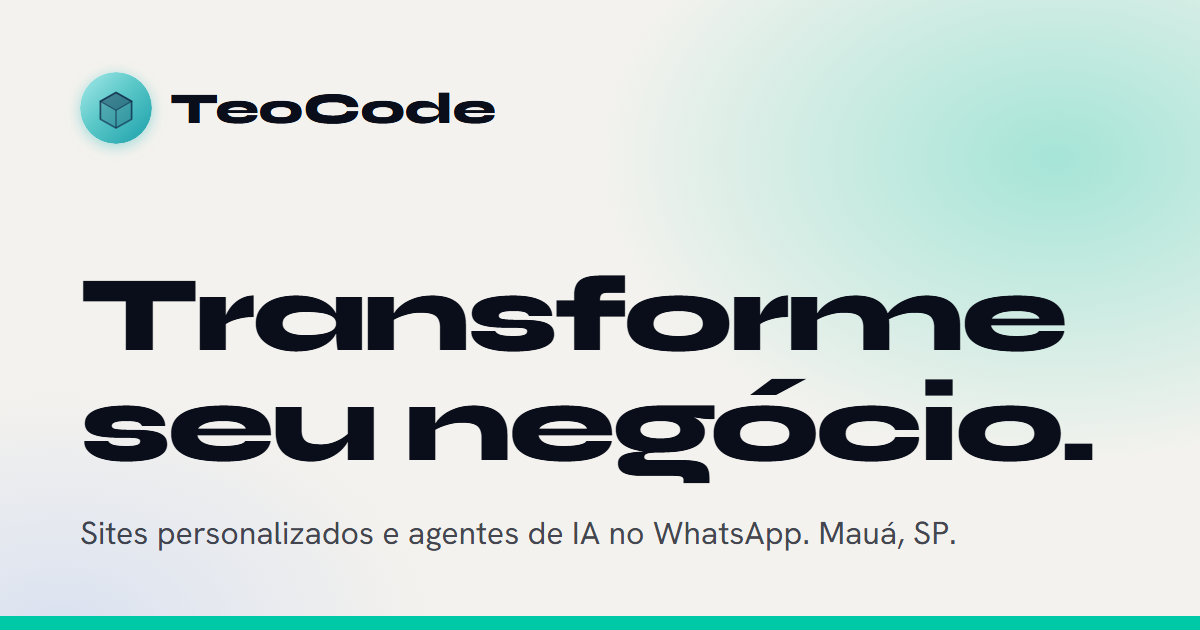
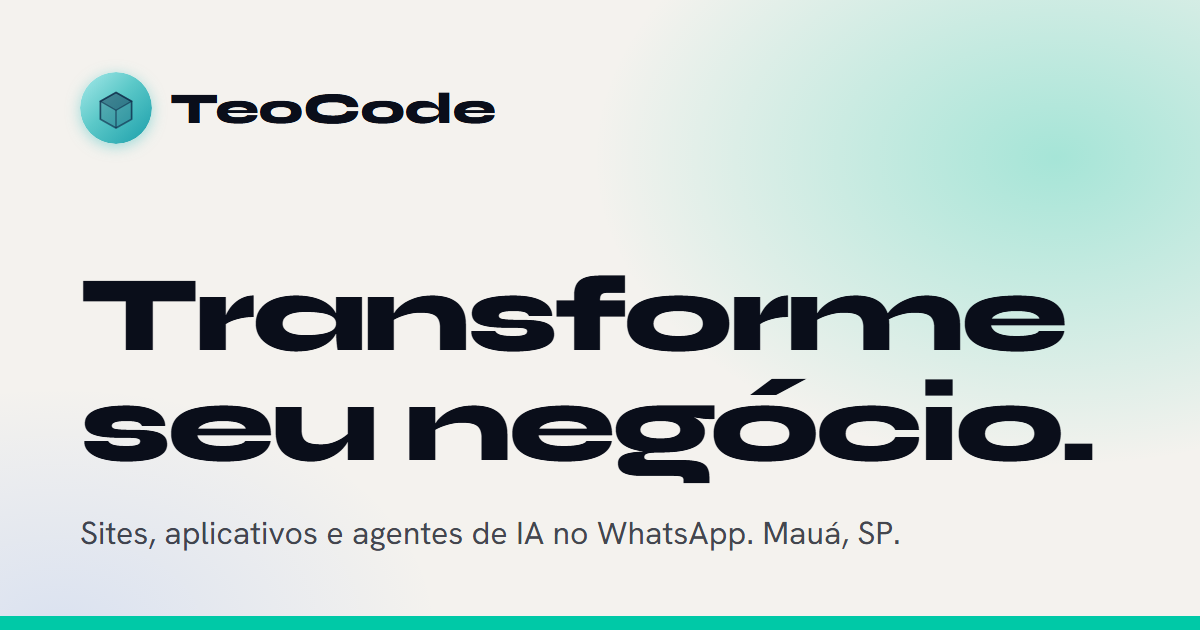
Atualização | SEO

Changed region(s): [[0.1233, 0.8143, 0.8017, 0.8746]]

diff --git a/404.html b/404.html
@@ -1,0 +1,96 @@
+<!DOCTYPE html>
+<html lang="pt-BR">
+
+<head>
+    <meta charset="utf-8" />
+    <meta name="viewport" content="width=device-width, initial-scale=1" />
+    <meta name="theme-color" content="#f4f2ee" />
+    <meta name="robots" content="noindex" />
+    <title>Página não encontrada | TeoCode</title>
+
+    <!-- Caminhos começam com "/" porque esta página é servida em qualquer endereço inexistente. -->
+    <link rel="icon" type="image/svg+xml" href="/assets/favicon.svg" />
+    <link rel="icon" type="image/png" sizes="32x32" href="/assets/favicon-32.png" />
+
+    <script data-goatcounter="https://teocode.goatcounter.com/count" async src="//gc.zgo.at/count.js"></script>
+
+    <link rel="preconnect" href="https://fonts.googleapis.com" />
+    <link rel="preconnect" href="https://fonts.gstatic.com" crossorigin />
+    <link
+        href="https://fonts.googleapis.com/css2?family=Hanken+Grotesk:wght@400;600&family=Syne:wght@800&display=swap"
+        rel="stylesheet" />
+
+    <style>
+        * { box-sizing: border-box; margin: 0; padding: 0; }
+        html { background: #f4f2ee; color: #0a0e1a; color-scheme: light; }
+        body {
+            display: flex;
+            min-height: 100vh;
+            min-height: 100dvh;
+            flex-direction: column;
+            justify-content: center;
+            align-items: flex-start;
+            width: 100%;
+            max-width: 720px;
+            margin: 0 auto;
+            padding: 48px 20px;
+            font-family: "Hanken Grotesk", ui-sans-serif, system-ui, sans-serif;
+        }
+        .brand { display: flex; align-items: center; gap: 10px; color: inherit; text-decoration: none; }
+        .brand img { display: block; border-radius: 50%; box-shadow: 0 3px 14px rgba(91, 200, 200, 0.55); }
+        .brand span { font-family: "Syne", sans-serif; font-weight: 800; font-size: 1.4rem; letter-spacing: -0.01em; }
+        h1 {
+            margin-top: 48px;
+            font-family: "Syne", sans-serif;
+            font-weight: 800;
+            font-size: clamp(2rem, 7vw, 3.5rem);
+            line-height: 1.06;
+            letter-spacing: -0.03em;
+            text-wrap: balance;
+        }
+        p { margin-top: 20px; max-width: 44ch; font-size: 1.1rem; line-height: 1.6; color: rgba(10, 14, 26, 0.75); }
+        .actions { display: flex; flex-wrap: wrap; gap: 12px; margin-top: 32px; }
+        .button {
+            display: inline-flex;
+            min-height: 48px;
+            align-items: center;
+            border: 1px solid transparent;
+            border-radius: 999px;
+            padding: 12px 24px;
+            font-weight: 600;
+            color: #0a0e1a;
+            text-decoration: none;
+        }
+        .button-primary { background: #00c9a7; }
+        .button-quiet { border-color: rgba(10, 14, 26, 0.25); }
+        a:focus-visible { outline: 3px solid #0a0e1a; outline-offset: 3px; }
+    </style>
+</head>
+
+<body>
+    <a class="brand" href="/">
+        <img src="/assets/logo.svg" width="42" height="42" alt="" />
+        <span>TeoCode</span>
+    </a>
+
+    <main>
+        <h1>Página não encontrada</h1>
+        <p>O endereço que você abriu não existe ou mudou de lugar. Volte ao início ou fale com a gente pelo WhatsApp.</p>
+        <div class="actions">
+            <a class="button button-primary" href="/">Voltar ao início</a>
+            <a class="button button-quiet" target="_blank" rel="noopener noreferrer" data-gc-event="cta-404"
+                href="https://wa.me/5511926377723?text=Ol%C3%A1!%20Abri%20um%20link%20do%20site%20da%20TeoCode%20que%20n%C3%A3o%20funcionou%20e%20gostaria%20de%20ajuda.">Falar no WhatsApp</a>
+        </div>
+    </main>
+
+    <script>
+        document.querySelector('[data-gc-event]').addEventListener('click', function () {
+            var name = this.getAttribute('data-gc-event');
+            if (window.goatcounter && window.goatcounter.count) {
+                window.goatcounter.count({ path: name, title: name, event: true });
+            }
+        });
+    </script>
+</body>
+
+</html>

diff --git a/index.html b/index.html
@@ -28,15 +28,15 @@
     <meta property="og:url" content="https://teocode.com.br/" />
     <meta property="og:title" content="TeoCode | Criação de Sites e Agentes de IA em Mauá, SP" />
     <meta property="og:description"
-        content="Sites personalizados e agentes de IA no WhatsApp para negócios de Mauá e região. Agende sua avaliação gratuita." />
+        content="Sites, aplicativos personalizados e agentes de IA no WhatsApp para negócios de Mauá e região. Agende sua avaliação gratuita." />
     <meta property="og:image" content="https://teocode.com.br/assets/og-image.png" />
     <meta property="og:image:width" content="1200" />
     <meta property="og:image:height" content="630" />
-    <meta property="og:image:alt" content="TeoCode: sites e agentes de IA para o seu negócio crescer" />
+    <meta property="og:image:alt" content="TeoCode: transforme seu negócio. Sites, aplicativos e agentes de IA em Mauá, SP" />
     <meta name="twitter:card" content="summary_large_image" />
     <meta name="twitter:title" content="TeoCode | Criação de Sites e Agentes de IA em Mauá, SP" />
     <meta name="twitter:description"
-        content="Sites personalizados e agentes de IA no WhatsApp para negócios de Mauá e região." />
+        content="Sites, aplicativos personalizados e agentes de IA no WhatsApp para negócios de Mauá e região." />
     <meta name="twitter:image" content="https://teocode.com.br/assets/og-image.png" />
 
     <!-- Favicon (gerado a partir do logo original) -->
@@ -220,15 +220,14 @@
                 class="mx-auto grid w-full max-w-[1344px] items-center gap-14 px-5 sm:px-8 lg:grid-cols-12 lg:gap-8 3xl:max-w-[1664px] 4xl:max-w-[1964px]">
                 <div class="lg:col-span-7">
                     <h1 id="hero-title"
-                        class="font-display text-[clamp(2.2rem,9vw,4.5rem)] font-extrabold leading-[1.02] tracking-[-0.035em] text-ink lg:text-[clamp(2.4rem,5.3vw,4.6rem)]">
-                        <span class="block in-hero" data-words>Transforme</span>
-                        <span class="block in-hero" data-words style="--d:140ms">seu negócio.</span>
+                        class="font-display text-[clamp(1.5rem,7.8vw,4rem)] font-extrabold leading-[1.06] tracking-[-0.035em] text-ink lg:text-[clamp(2.4rem,4.1vw,3.75rem)]">
+                        <span class="block text-balance in-hero" data-words>Sites, aplicativos e agentes&nbsp;de&nbsp;IA em&nbsp;Mauá</span>
                     </h1>
 
                     <p class="hero-rise mt-7 max-w-[34ch] text-[1.125rem] leading-relaxed text-ink/75 sm:max-w-[44ch] sm:text-[1.2rem]"
                         style="--d:420ms">
-                        Sites personalizados e agentes de IA no WhatsApp para negócios de Mauá e região que querem
-                        crescer.
+                        Transforme seu negócio com soluções sob medida, criadas para empresas de Mauá e região que
+                        querem crescer.
                     </p>
 
                     <div class="hero-rise mt-9 flex flex-wrap items-center gap-x-4 gap-y-3" style="--d:560ms">

diff --git a/assets/js/main.js b/assets/js/main.js
@@ -28,10 +28,10 @@
 
   /* ── 0b. Titulos revelados palavra por palavra ───────────────────────── */
   $$('[data-words]').forEach((el) => {
-    const words = el.textContent.trim().split(/\s+/);
-    el.setAttribute('aria-label', words.join(' '));
+    // Divide so em espacos comuns: um &nbsp; no HTML mantem duas palavras na mesma linha.
+    const words = el.textContent.trim().split(/[ \t\r\n]+/);
     el.innerHTML = words
-      .map((w, i) => `<span class="wm" aria-hidden="true"><span class="wi" style="--i:${i}">${w}</span></span>`)
+      .map((w, i) => `<span class="wm"><span class="wi" style="--i:${i}">${w}</span></span>`)
       .join(' ');
   });
 

diff --git a/assets/og-image.source.html b/assets/og-image.source.html
@@ -32,7 +32,7 @@
 <body>
   <div class="brand"><img src="logo.svg" alt="" /><span>TeoCode</span></div>
   <h1>Transforme<br />seu negócio.</h1>
-  <p>Sites personalizados e agentes de IA no WhatsApp. Mauá, SP.</p>
+  <p>Sites, aplicativos e agentes de IA no WhatsApp. Mauá, SP.</p>
   <div class="bar"></div>
 </body>
 </html>
